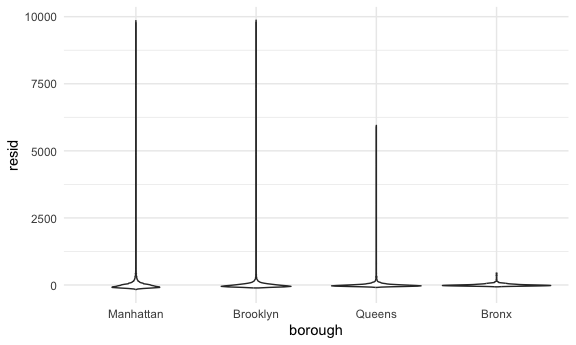
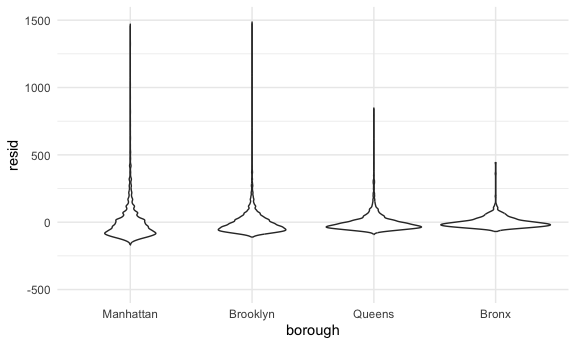
models

diff --git a/Linear_models.md b/Linear_models.md
@@ -277,15 +277,263 @@ than my model predicts.
 
 It’s good to look at residuals because that gives us an idea as to how
 well the model fits the data and if there are outliers. The taller the
-line, the more outliers there are.
+line/size of the squiggly space (maybe?), the more outliers there are. I
+reset the limits of the y axis for better visualization.
 
 ``` r
 nyc_airbnb %>% 
   modelr::add_residuals(fit) %>% 
-  ggplot(aes(x = borough, y = resid)) + geom_violin()
+  ggplot(aes(x = borough, y = resid)) + geom_violin() +
+  ylim(-500,1500)
 ```
 
-    ## Warning: Removed 9962 rows containing non-finite outside the scale range
+    ## Warning: Removed 9993 rows containing non-finite outside the scale range
     ## (`stat_ydensity()`).
 
 <img src="Linear_models_files/figure-gfm/unnamed-chunk-12-1.png" width="90%" />
+
+I can also plot the residuals for each borough and have a better idea of
+where the model might be failing some values— you want to see where
+majority of values are– that means they are well represented by the
+model. For values that are somewhat outliers, like there are a lot in
+manhattan, see the extra data points further away.I’m telling it to plot
+each borough separately (using the facet function– I think it means all
+rows) and plot the residuals for each star rating
+
+``` r
+nyc_airbnb |> 
+  modelr::add_residuals(fit) |> 
+  ggplot(aes(x = stars, y = resid)) + geom_point() +
+  facet_wrap(. ~borough)
+```
+
+    ## Warning: Removed 9962 rows containing missing values or values outside the scale range
+    ## (`geom_point()`).
+
+<img src="Linear_models_files/figure-gfm/unnamed-chunk-13-1.png" width="90%" />
+
+\##Comparing models
+
+So it’s important to be sure that your complex model is complex because
+it represents the data well and is better than a simpler model (with
+fewer indepdent variables). The standard for comparing models is using
+an anova test. The original linear model
+(`fit = lm(price ~ stars + borough, data = nyc_airbnb)` ) looked at
+stars and borough as the independent variables. But let’s say my null
+hypothesis is borough doesn’t have an influence. The P value is get from
+the anova will tell you if there’s a significant difference in the more
+complex plot you have, and if so, that means accounting for those extra
+variables DOES make a difference in how well the model estimates the
+effects. It’s a little hard to understand/read at first, so I can add
+the `broom:: tidy()` function to improve readability.
+
+``` r
+fit_null = lm(price ~ stars, data = nyc_airbnb)
+fit_alt = lm(price ~ stars + borough, data = nyc_airbnb)
+anova(fit_null, fit_alt) %>% 
+  broom:: tidy()
+```
+
+    ## # A tibble: 2 × 7
+    ##   term                    df.residual     rss    df   sumsq statistic    p.value
+    ##   <chr>                         <dbl>   <dbl> <dbl>   <dbl>     <dbl>      <dbl>
+    ## 1 price ~ stars                 30528  1.03e9    NA NA            NA  NA        
+    ## 2 price ~ stars + borough       30525  1.01e9     3  2.53e7      256.  7.84e-164
+
+## How to create models that further stratify an indepedent variable of interest using nested data
+
+So this is important because let’s say I want to know not only whether
+star rating influences price, but what if it’s star rating within in
+each borough. I can tell the code to consider the interaction of stars
+and borough (and in stats means multiply). Importantly you can see p
+values for each interaction.
+
+``` r
+fit = lm(price ~ stars* borough + room_type * borough, data = nyc_airbnb) 
+
+broom:: tidy(fit)
+```
+
+    ## # A tibble: 16 × 5
+    ##    term                                  estimate std.error statistic  p.value
+    ##    <chr>                                    <dbl>     <dbl>     <dbl>    <dbl>
+    ##  1 (Intercept)                              95.7      19.2     4.99   6.13e- 7
+    ##  2 stars                                    27.1       3.96    6.84   8.20e-12
+    ##  3 boroughBrooklyn                         -26.1      25.1    -1.04   2.99e- 1
+    ##  4 boroughQueens                            -4.12     40.7    -0.101  9.19e- 1
+    ##  5 boroughBronx                             -5.63     77.8    -0.0723 9.42e- 1
+    ##  6 room_typePrivate room                  -124.        3.00  -41.5    0       
+    ##  7 room_typeShared room                   -154.        8.69  -17.7    1.42e-69
+    ##  8 stars:boroughBrooklyn                    -6.14      5.24   -1.17   2.41e- 1
+    ##  9 stars:boroughQueens                     -17.5       8.54   -2.04   4.09e- 2
+    ## 10 stars:boroughBronx                      -22.7      17.1    -1.33   1.85e- 1
+    ## 11 boroughBrooklyn:room_typePrivate room    32.0       4.33    7.39   1.55e-13
+    ## 12 boroughQueens:room_typePrivate room      54.9       7.46    7.37   1.81e-13
+    ## 13 boroughBronx:room_typePrivate room       71.3      18.0     3.96   7.54e- 5
+    ## 14 boroughBrooklyn:room_typeShared room     47.8      13.9     3.44   5.83e- 4
+    ## 15 boroughQueens:room_typeShared room       58.7      17.9     3.28   1.05e- 3
+    ## 16 boroughBronx:room_typeShared room        83.1      42.5     1.96   5.03e- 2
+
+## Nesting data
+
+So I’m telling it to take this data and form a list of data frames.
+Truly not quite sure what this code is doing in terms of the -borough bc
+that means exclude borough.
+
+``` r
+nyc_airbnb %>% 
+  nest(data = -borough)
+```
+
+    ## # A tibble: 4 × 2
+    ##   borough   data                 
+    ##   <fct>     <list>               
+    ## 1 Bronx     <tibble [649 × 4]>   
+    ## 2 Queens    <tibble [3,821 × 4]> 
+    ## 3 Brooklyn  <tibble [16,810 × 4]>
+    ## 4 Manhattan <tibble [19,212 × 4]>
+
+Now I’m going to create a model for each borough. Again, not quite sure
+what syntax needs are for the map function. Data refers to the data
+column.
+
+``` r
+nyc_airbnb %>% 
+  nest(data = -borough) %>% 
+  mutate(
+    models = map(.x = data, ~lm(price ~ stars, data = .x))
+  ) 
+```
+
+    ## # A tibble: 4 × 3
+    ##   borough   data                  models
+    ##   <fct>     <list>                <list>
+    ## 1 Bronx     <tibble [649 × 4]>    <lm>  
+    ## 2 Queens    <tibble [3,821 × 4]>  <lm>  
+    ## 3 Brooklyn  <tibble [16,810 × 4]> <lm>  
+    ## 4 Manhattan <tibble [19,212 × 4]> <lm>
+
+I can pull out the models column to see the coefficients. The map
+function takes an input (.x = the information of interest, which is
+data, then applies a function to elements in the list, which in this
+case is the linear model, and returns an object of the same length as
+the input, which is what I think data =.x does).
+
+``` r
+nyc_airbnb %>% 
+  nest(data = -borough) %>% 
+  mutate(
+    models = map(.x = data, ~lm(price ~ stars, data = .x))
+  ) %>% 
+  pull(models)
+```
+
+    ## [[1]]
+    ## 
+    ## Call:
+    ## lm(formula = price ~ stars, data = .x)
+    ## 
+    ## Coefficients:
+    ## (Intercept)        stars  
+    ##      49.925        4.913  
+    ## 
+    ## 
+    ## [[2]]
+    ## 
+    ## Call:
+    ## lm(formula = price ~ stars, data = .x)
+    ## 
+    ## Coefficients:
+    ## (Intercept)        stars  
+    ##        18.1         15.8  
+    ## 
+    ## 
+    ## [[3]]
+    ## 
+    ## Call:
+    ## lm(formula = price ~ stars, data = .x)
+    ## 
+    ## Coefficients:
+    ## (Intercept)        stars  
+    ##      -11.35        27.99  
+    ## 
+    ## 
+    ## [[4]]
+    ## 
+    ## Call:
+    ## lm(formula = price ~ stars, data = .x)
+    ## 
+    ## Coefficients:
+    ## (Intercept)        stars  
+    ##       -34.3         43.3
+
+I can apply the tiny data and add a results column of the broom tidy
+function that provides the stats we care about.
+
+``` r
+stats_of_interest = nyc_airbnb %>% 
+  nest(data = -borough) %>% 
+  mutate(
+    models = map(.x = data, ~lm(price ~ stars, data = .x)),
+    results = map(models, broom::tidy)
+  )
+stats_of_interest
+```
+
+    ## # A tibble: 4 × 4
+    ##   borough   data                  models results         
+    ##   <fct>     <list>                <list> <list>          
+    ## 1 Bronx     <tibble [649 × 4]>    <lm>   <tibble [2 × 5]>
+    ## 2 Queens    <tibble [3,821 × 4]>  <lm>   <tibble [2 × 5]>
+    ## 3 Brooklyn  <tibble [16,810 × 4]> <lm>   <tibble [2 × 5]>
+    ## 4 Manhattan <tibble [19,212 × 4]> <lm>   <tibble [2 × 5]>
+
+Now I can unnest it to show me columns and rows. I removed the stars
+columns
+
+``` r
+stats_of_interest = nyc_airbnb %>% 
+  nest(data = -borough) %>% 
+  mutate(
+    models = map(.x = data, ~lm(price ~ stars, data = .x)),
+    results = map(models, broom::tidy)
+  ) %>% 
+   select(-data, -models) %>% 
+  unnest(results)
+stats_of_interest
+```
+
+    ## # A tibble: 8 × 6
+    ##   borough   term        estimate std.error statistic  p.value
+    ##   <fct>     <chr>          <dbl>     <dbl>     <dbl>    <dbl>
+    ## 1 Bronx     (Intercept)    49.9      18.3      2.72  6.71e- 3
+    ## 2 Bronx     stars           4.91      4.10     1.20  2.31e- 1
+    ## 3 Queens    (Intercept)    18.1      26.3      0.688 4.92e- 1
+    ## 4 Queens    stars          15.8       5.63     2.81  5.06e- 3
+    ## 5 Brooklyn  (Intercept)   -11.3      14.5     -0.784 4.33e- 1
+    ## 6 Brooklyn  stars          28.0       3.10     9.02  2.13e-19
+    ## 7 Manhattan (Intercept)   -34.3      22.9     -1.50  1.35e- 1
+    ## 8 Manhattan stars          43.3       4.78     9.07  1.39e-19
+
+I can remove the stars column.
+
+``` r
+stats_of_interest = nyc_airbnb %>% 
+  nest(data = -borough) %>% 
+  mutate(
+    models = map(.x = data, ~lm(price ~ stars, data = .x)),
+    results = map(models, broom::tidy)
+  ) %>% 
+   select(-data, -models) %>% 
+  unnest(results) %>% 
+ filter(term == "stars")
+stats_of_interest
+```
+
+    ## # A tibble: 4 × 6
+    ##   borough   term  estimate std.error statistic  p.value
+    ##   <fct>     <chr>    <dbl>     <dbl>     <dbl>    <dbl>
+    ## 1 Bronx     stars     4.91      4.10      1.20 2.31e- 1
+    ## 2 Queens    stars    15.8       5.63      2.81 5.06e- 3
+    ## 3 Brooklyn  stars    28.0       3.10      9.02 2.13e-19
+    ## 4 Manhattan stars    43.3       4.78      9.07 1.39e-19
